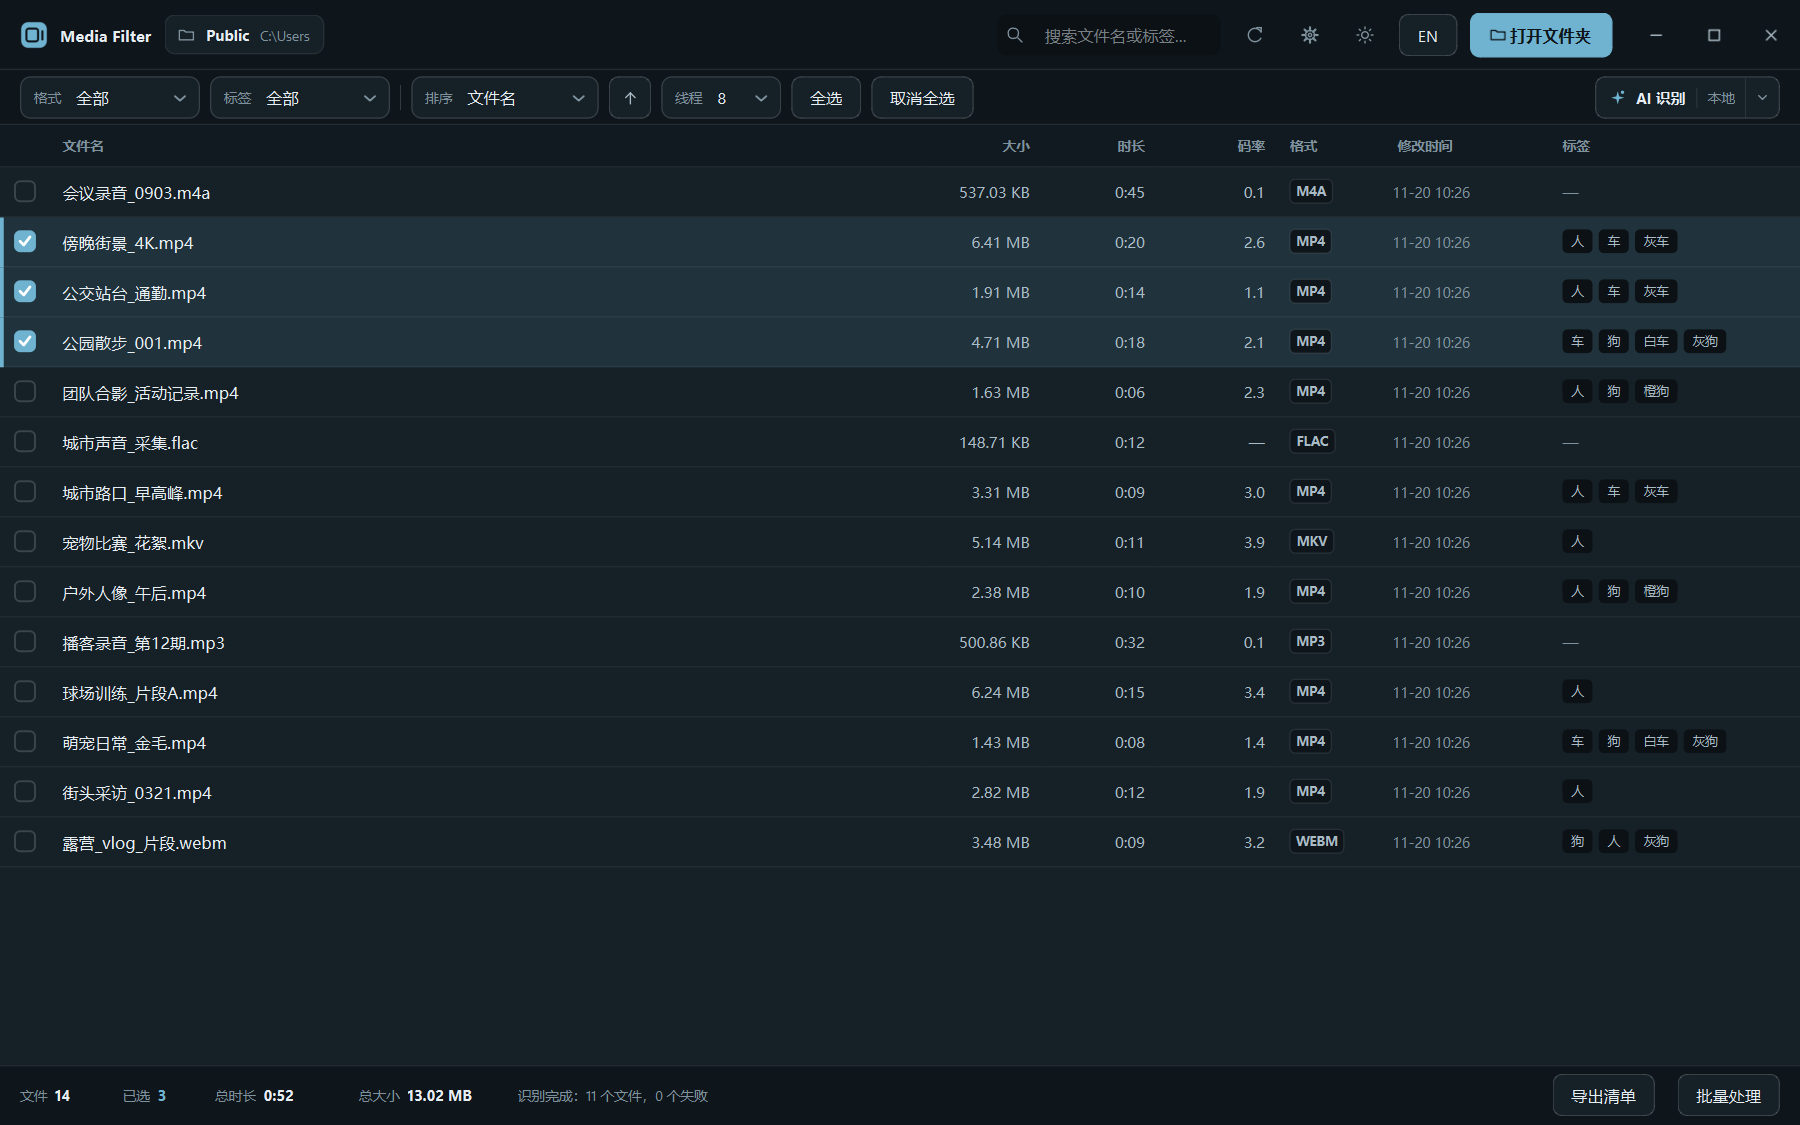
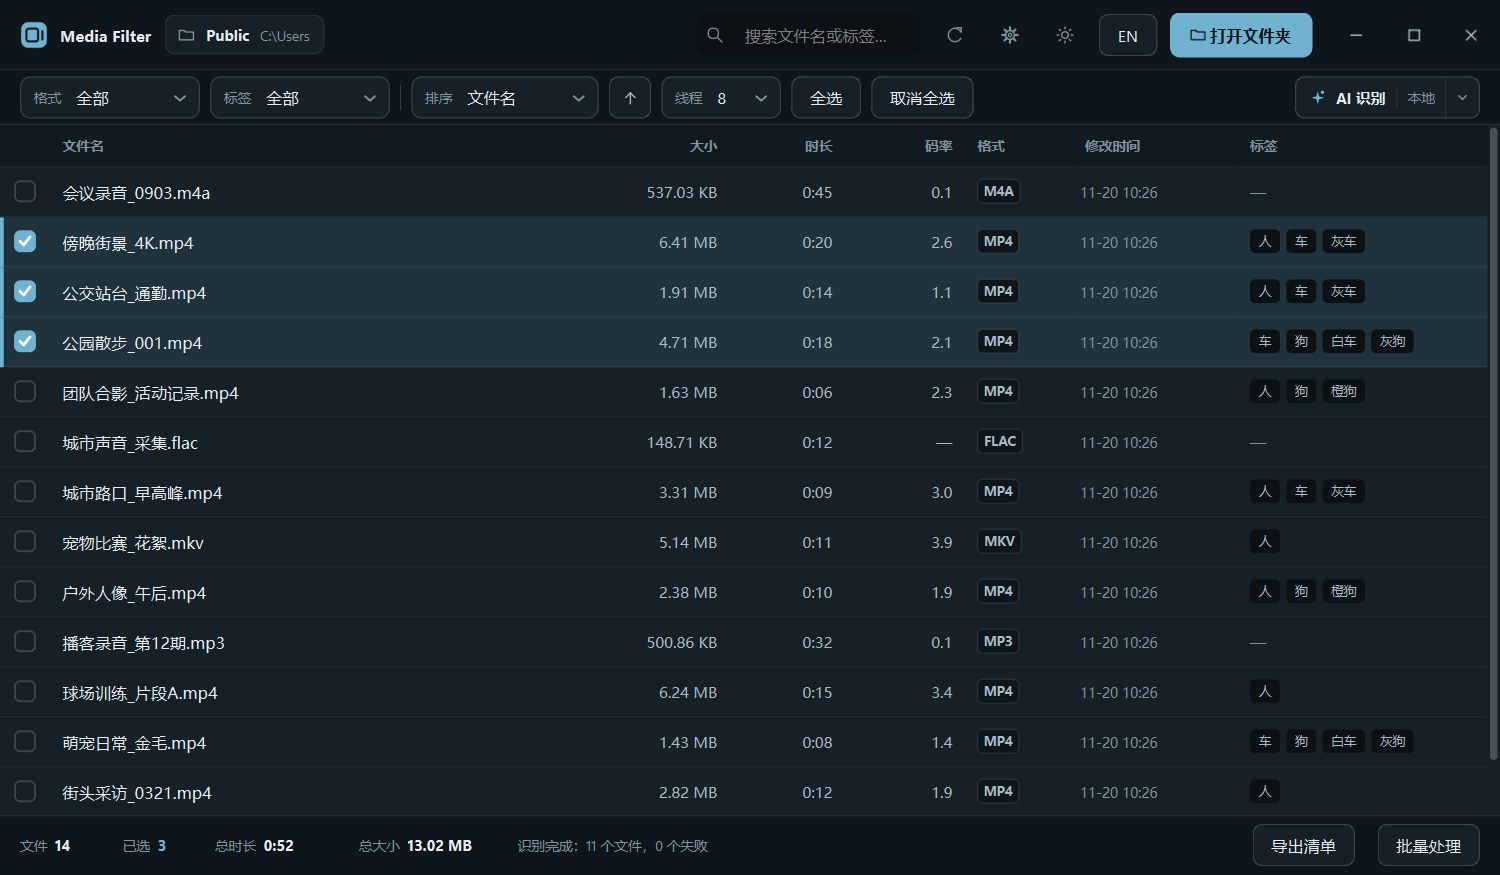
Show screenshots one per row and capture the demo at a readable size

diff --git a/docs/index.html b/docs/index.html
@@ -94,6 +94,7 @@
       box-shadow: var(--shadow);
     }
     .shot img { display: block; width: 100%; height: auto; }
+    .shot a, .gallery a { display: block; line-height: 0; }
     section { padding: 72px 0; }
     section h2 { font-size: clamp(24px, 2.6vw, 32px); letter-spacing: -0.02em; margin: 0 0 10px; }
     section .sub { color: var(--ink-2); margin: 0 0 30px; max-width: 720px; }
@@ -106,7 +107,7 @@
     .card h3 { margin: 0 0 8px; font-size: 17px; letter-spacing: -0.01em; }
     .card p { margin: 0; color: var(--ink-2); font-size: 14.5px; }
     .card p.zh { margin-top: 8px; color: var(--ink-3); font-size: 13.5px; }
-    .gallery { display: grid; grid-template-columns: 1fr 1fr; gap: 18px; }
+    .gallery { display: grid; grid-template-columns: 1fr; gap: 26px; max-width: 1040px; margin: 0 auto; }
     .gallery figure { margin: 0; }
     .gallery img {
       display: block; width: 100%; border-radius: 12px;
@@ -176,8 +177,10 @@
         <p class="meta zh">便携 ZIP · Python、FFmpeg、本地模型全部内置 · MIT 许可</p>
 
         <figure class="shot">
-          <img src="screenshots/demo.gif" width="1000" height="625"
-               alt="Scanning a folder, tagging clips with local AI, filtering by tag, and processing the selection with FFmpeg">
+          <a href="screenshots/demo.gif" target="_blank" rel="noopener">
+            <img src="screenshots/demo.gif" width="1200" height="760"
+                 alt="Scanning a folder, tagging clips with local AI, filtering by tag, and processing the selection with FFmpeg">
+          </a>
         </figure>
       </div>
     </div>
@@ -224,22 +227,22 @@
         <p class="sub zh">真实界面截图：主界面为本地 AI 识别 14 个演示文件，0 失败。</p>
         <div class="gallery">
           <figure>
-            <img src="screenshots/main-light.png" alt="Main window, light theme" loading="lazy">
+            <a href="screenshots/main-light.png" target="_blank" rel="noopener"><img src="screenshots/main-light.png" alt="Main window, light theme — 14 demo files tagged by the local model" loading="lazy"></a>
             <figcaption class="en">Main window · light</figcaption>
             <figcaption class="zh">主界面 · 浅色</figcaption>
           </figure>
           <figure>
-            <img src="screenshots/main-dark.png" alt="Main window, dark theme" loading="lazy">
+            <a href="screenshots/main-dark.png" target="_blank" rel="noopener"><img src="screenshots/main-dark.png" alt="Main window, dark theme" loading="lazy"></a>
             <figcaption class="en">Main window · dark</figcaption>
             <figcaption class="zh">主界面 · 深色</figcaption>
           </figure>
           <figure>
-            <img src="screenshots/batch.png" alt="Batch processing dialog" loading="lazy">
+            <a href="screenshots/batch.png" target="_blank" rel="noopener"><img src="screenshots/batch.png" alt="Batch processing dialog — NVENC HEVC compression with command preview" loading="lazy"></a>
             <figcaption class="en">Batch processing</figcaption>
             <figcaption class="zh">批量处理</figcaption>
           </figure>
           <figure>
-            <img src="screenshots/settings.png" alt="Settings, tag palette" loading="lazy">
+            <a href="screenshots/settings.png" target="_blank" rel="noopener"><img src="screenshots/settings.png" alt="Settings, tag palette — custom labels and GPU inference" loading="lazy"></a>
             <figcaption class="en">Settings · tags</figcaption>
             <figcaption class="zh">设置 · 标签</figcaption>
           </figure>

diff --git a/scripts/capture_gif.py b/scripts/capture_gif.py
@@ -37,7 +37,7 @@ from mediafilter.ui.widgets.batch_process import BatchProcessDialog
 
 FRAMES_DIR = Path(tempfile.mkdtemp(prefix="mediafilter-gif-frames-"))
 DURATIONS_MS = [1600, 1900, 1900, 2600]
-CANVAS = (1000, 625)
+CANVAS = (1200, 760)
 
 
 def wait_until(app: QApplication, predicate, timeout: float = 180.0) -> None:
@@ -97,7 +97,7 @@ def main() -> None:
     config.save()
 
     window = MainWindow(tr, config)
-    window.resize(1440, 900)
+    window.resize(1200, 700)
     window.show()
     process_events(app, 0.6)
     frames: list[Path] = []

diff --git a/scripts/capture_screenshots.py b/scripts/capture_screenshots.py
@@ -92,7 +92,7 @@ def main() -> None:
     config.save()
 
     window = MainWindow(tr, config)
-    window.resize(1440, 900)
+    window.resize(1200, 700)
     window.show()
     process_events(app)
 

diff --git a/README.md b/README.md
@@ -48,13 +48,25 @@
 
 ## Screenshots / 界面预览
 
-| Light / 浅色 | Dark / 深色 |
-| --- | --- |
-| ![Main window, light theme](docs/screenshots/main-light.png) | ![Main window, dark theme](docs/screenshots/main-dark.png) |
+<p align="center">
+  <a href="docs/screenshots/main-light.png"><img src="docs/screenshots/main-light.png" alt="Main window, light theme — 14 demo files tagged by the local model" width="880"></a>
+</p>
+<p align="center"><sub>Main window · light / 主界面 · 浅色</sub></p>
 
-| Batch processing / 批量处理 | Settings · tags / 设置·标签 |
-| --- | --- |
-| ![Batch processing dialog](docs/screenshots/batch.png) | ![Settings, tags tab](docs/screenshots/settings.png) |
+<p align="center">
+  <a href="docs/screenshots/batch.png"><img src="docs/screenshots/batch.png" alt="Batch processing dialog — NVIDIA NVENC HEVC compression with command preview" width="880"></a>
+</p>
+<p align="center"><sub>Batch processing / 批量处理</sub></p>
+
+<p align="center">
+  <a href="docs/screenshots/settings.png"><img src="docs/screenshots/settings.png" alt="Settings, tags tab — custom labels and GPU inference device" width="880"></a>
+</p>
+<p align="center"><sub>Settings · tags / 设置 · 标签</sub></p>
+
+<p align="center">
+  <a href="docs/screenshots/main-dark.png"><img src="docs/screenshots/main-dark.png" alt="Main window, dark theme" width="880"></a>
+</p>
+<p align="center"><sub>Main window · dark / 主界面 · 深色</sub></p>
 
 Real screenshots from the running app (main window: local AI tagging on the 14 demo files). / 截图直接来自运行中的程序（主界面为本地 AI 识别 14 个演示文件）。
 
